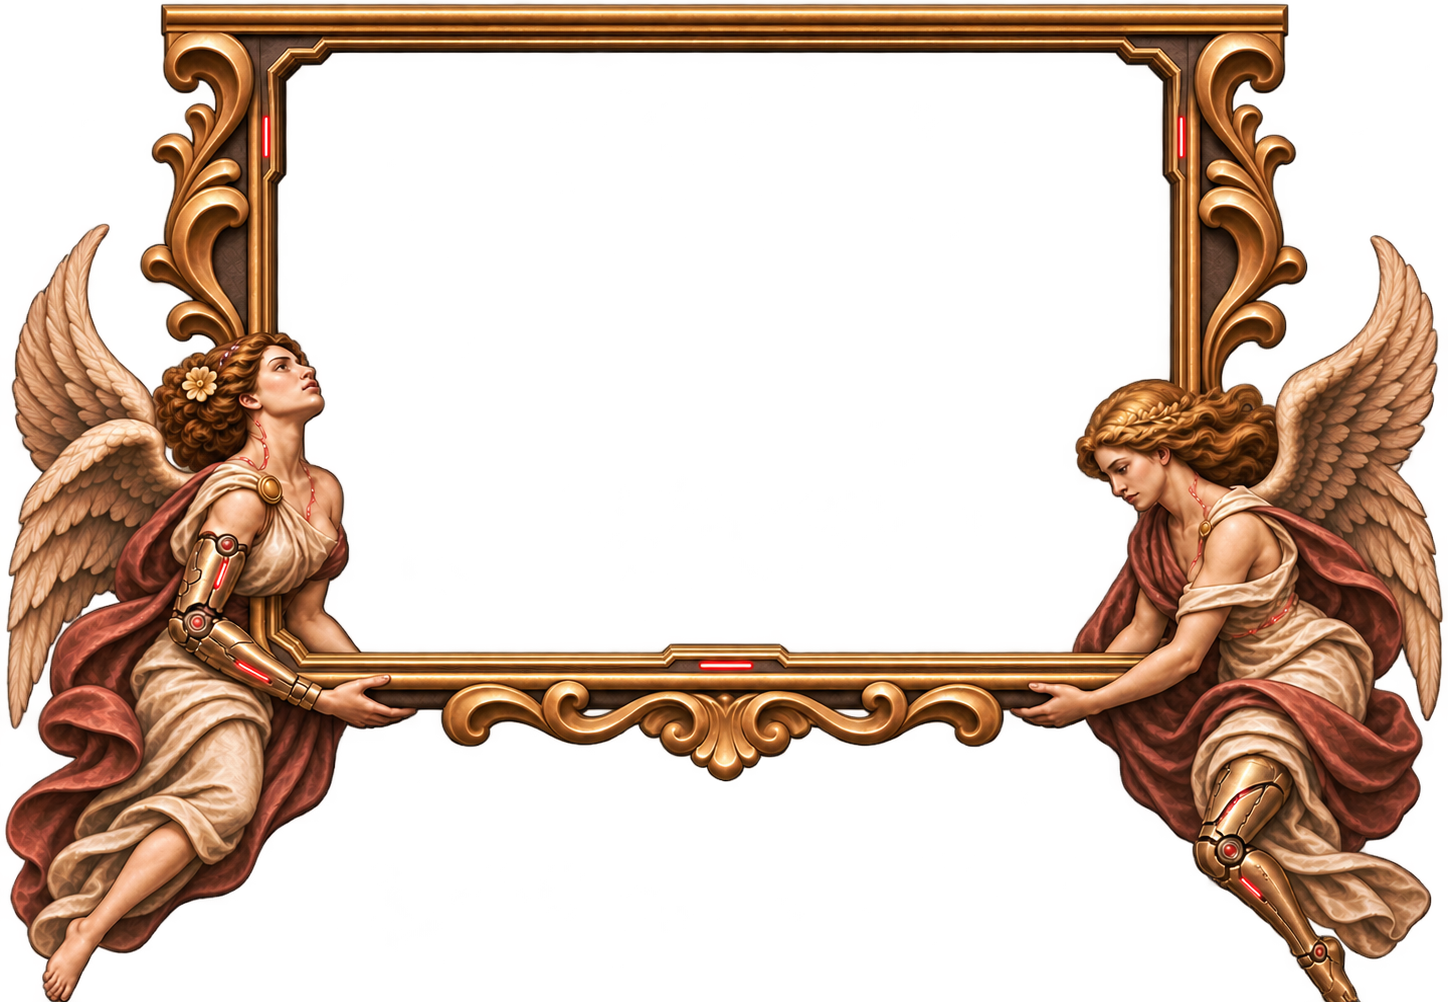
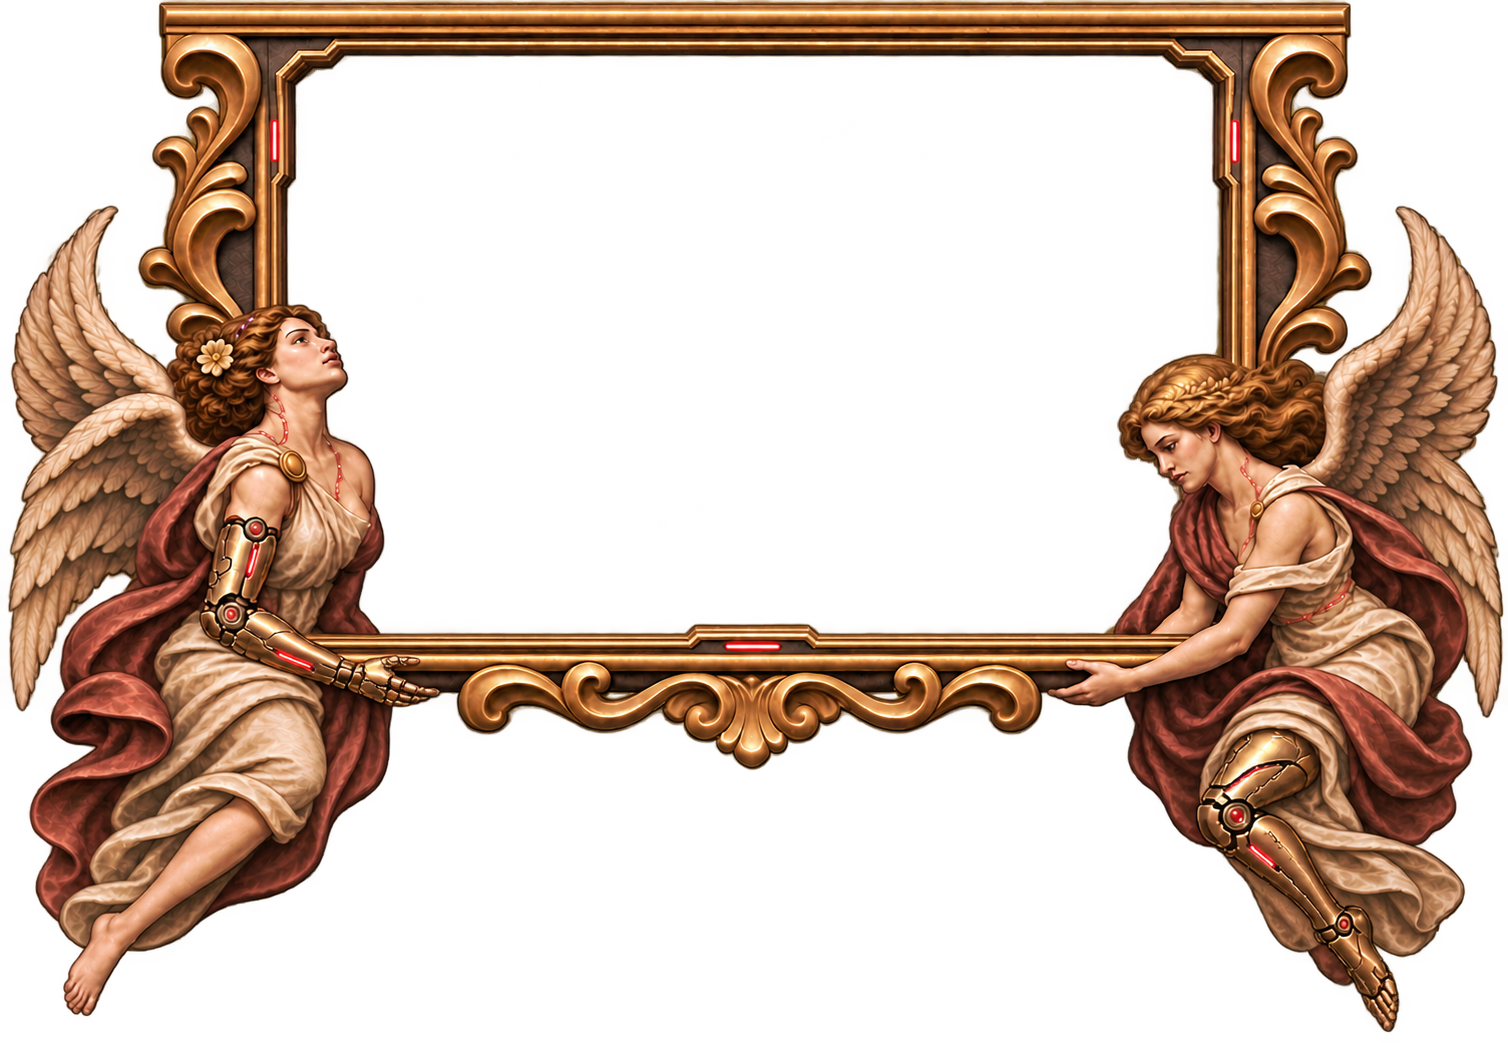
fix(menus): widen inner padding for framed Super+M, O, and N
Give music and session content a 28px aperture inset and match SwayNC
control-center padding so controls sit farther from the frame ornaments.

diff --git a/swaync/style.css b/swaync/style.css
@@ -214,7 +214,7 @@
     background-color: transparent;
     background-image: none;
     color: @foreground;
-    padding: 57px 289px 283px 275px;
+    padding: 69px 301px 295px 287px;
     border: none;
     box-shadow: none;
 }

diff --git a/tests/test_surfaces.py b/tests/test_surfaces.py
@@ -131,7 +131,7 @@ class SurfaceTests(unittest.TestCase):
         draw.rectangle((18, 0, 22, 10), fill=(0, 0, 0, 0))
         self.assertIsNone(surfaces.frame_aperture(frame).getbbox())
 
-    def test_notification_controls_clear_artwork_by_sixteen_pixels(self):
+    def test_notification_controls_clear_artwork_by_twenty_eight_pixels(self):
         self.publish(False)
         config = json.loads((ROOT / 'swaync/config.json').read_text())
         css = (ROOT / 'swaync/style.css').read_text()
@@ -143,7 +143,8 @@ class SurfaceTests(unittest.TestCase):
         self.assertEqual(config['control-center-height'], height)
         with Image.open(self.frames / 'notification-aperture.png') as mask:
             safe = mask.getchannel('A').point(lambda value: 255 if value >= 248 else 0)
-            safe = safe.filter(ImageFilter.MinFilter(33))
+            # MinFilter(2n+1) erodes n pixels; keep controls 28px inside solid frame.
+            safe = safe.filter(ImageFilter.MinFilter(57))
             self.assertEqual(safe.crop((left, top, width-right, height-bottom)).getextrema(), (255, 255))
 
     def test_selector_glass_stays_inside_the_opening(self):

diff --git a/voluta/surfaces.py b/voluta/surfaces.py
@@ -34,7 +34,7 @@ MUSIC_FRAME = Path('wallust/assets/music-frame.png')
 MUSIC_SIZE = (624, 1040)
 SESSION_FRAME = Path('wallust/assets/session-frame.png')
 SESSION_SIZE = MUSIC_SIZE
-MUSIC_CONTENT_PAD = 18
+MUSIC_CONTENT_PAD = 28
 
 
 def hex_color(color):

diff --git a/docs/voluta/integrations/surfaces.md b/docs/voluta/integrations/surfaces.md
@@ -393,8 +393,9 @@ after dismissal, while the sliding projection unmaps.
 The 21 focused checks passed again after this addition.
 
 Owner-art refit on 2026-11-07: 21 focused palette, geometry, renderer lifecycle,
-deployment, and toggle checks passed. The content rectangle has a tested 16px
+deployment, and toggle checks passed. The content rectangle has a tested 28px
 clearance from solid frame pixels; the archive scrollbar uses a 2px rail.
+Music and session content rectangles use the same 28px inset from the aperture.
 Live checks found matching native/glass surfaces at (0,34), 1920×1046, and
 captured the menu and projection moving upward together on dismissal.
 The renderer PID survived the idle/open/close test. The default GTK renderer took 2419ms in an isolated first-open comparison;
